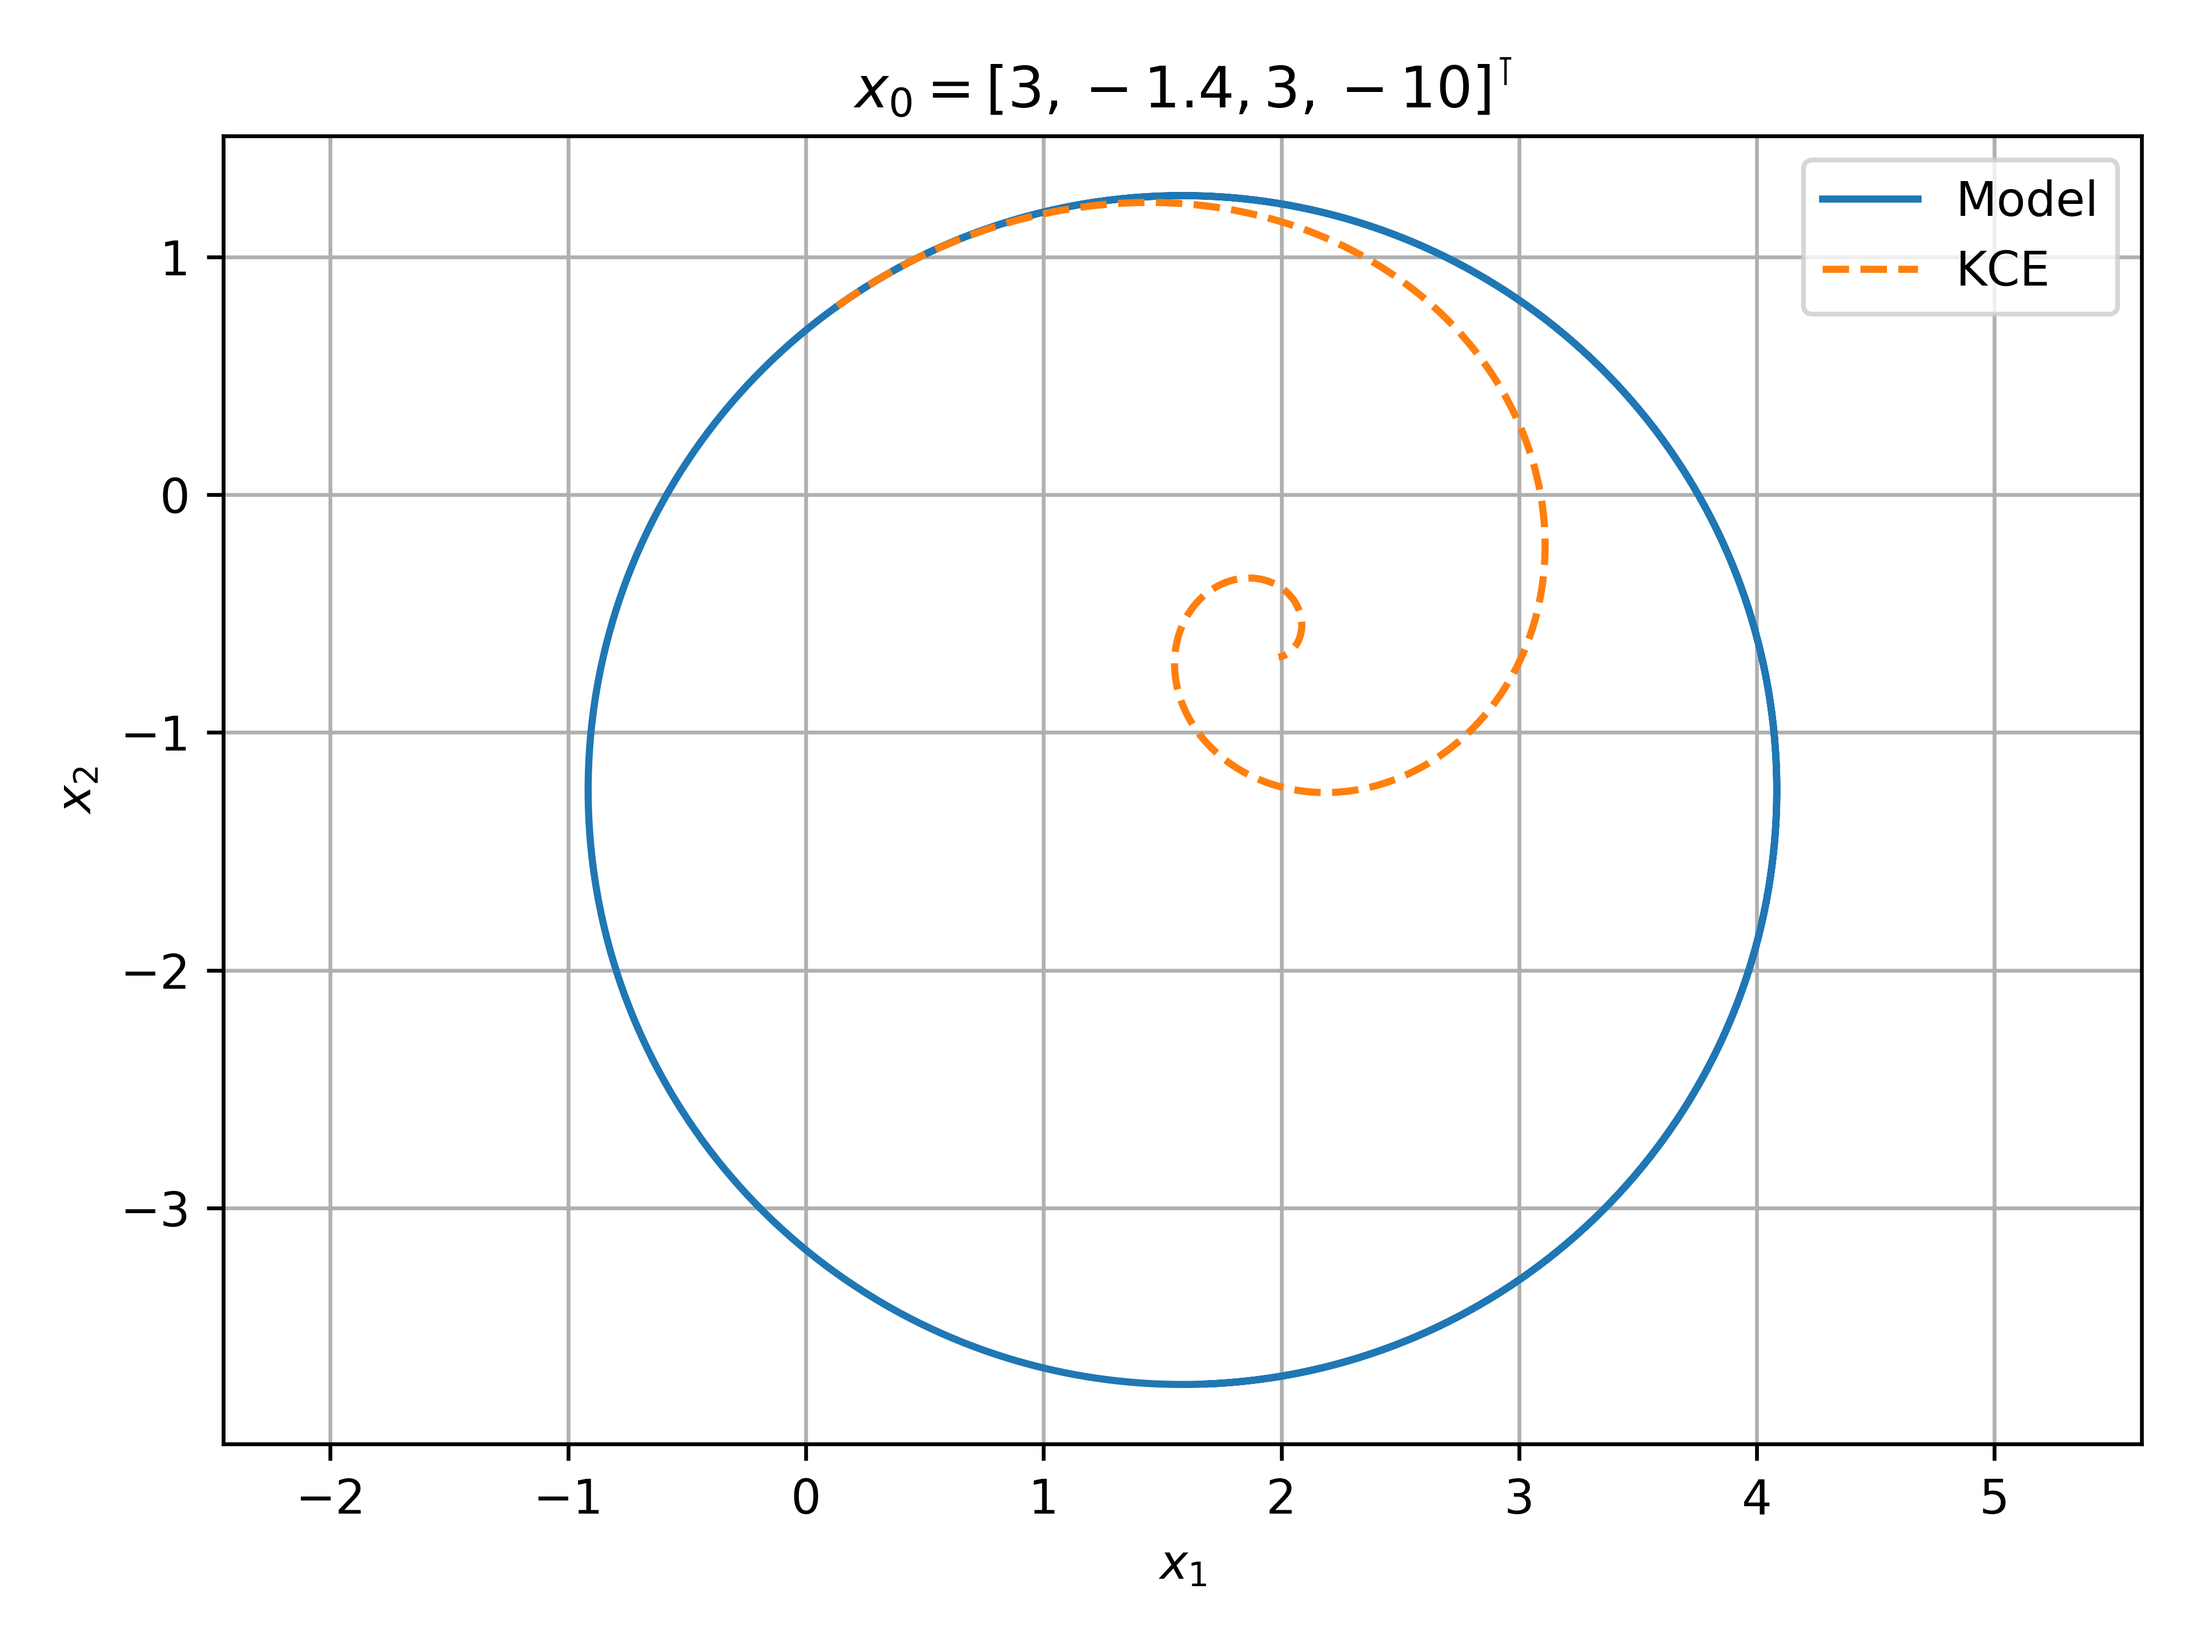
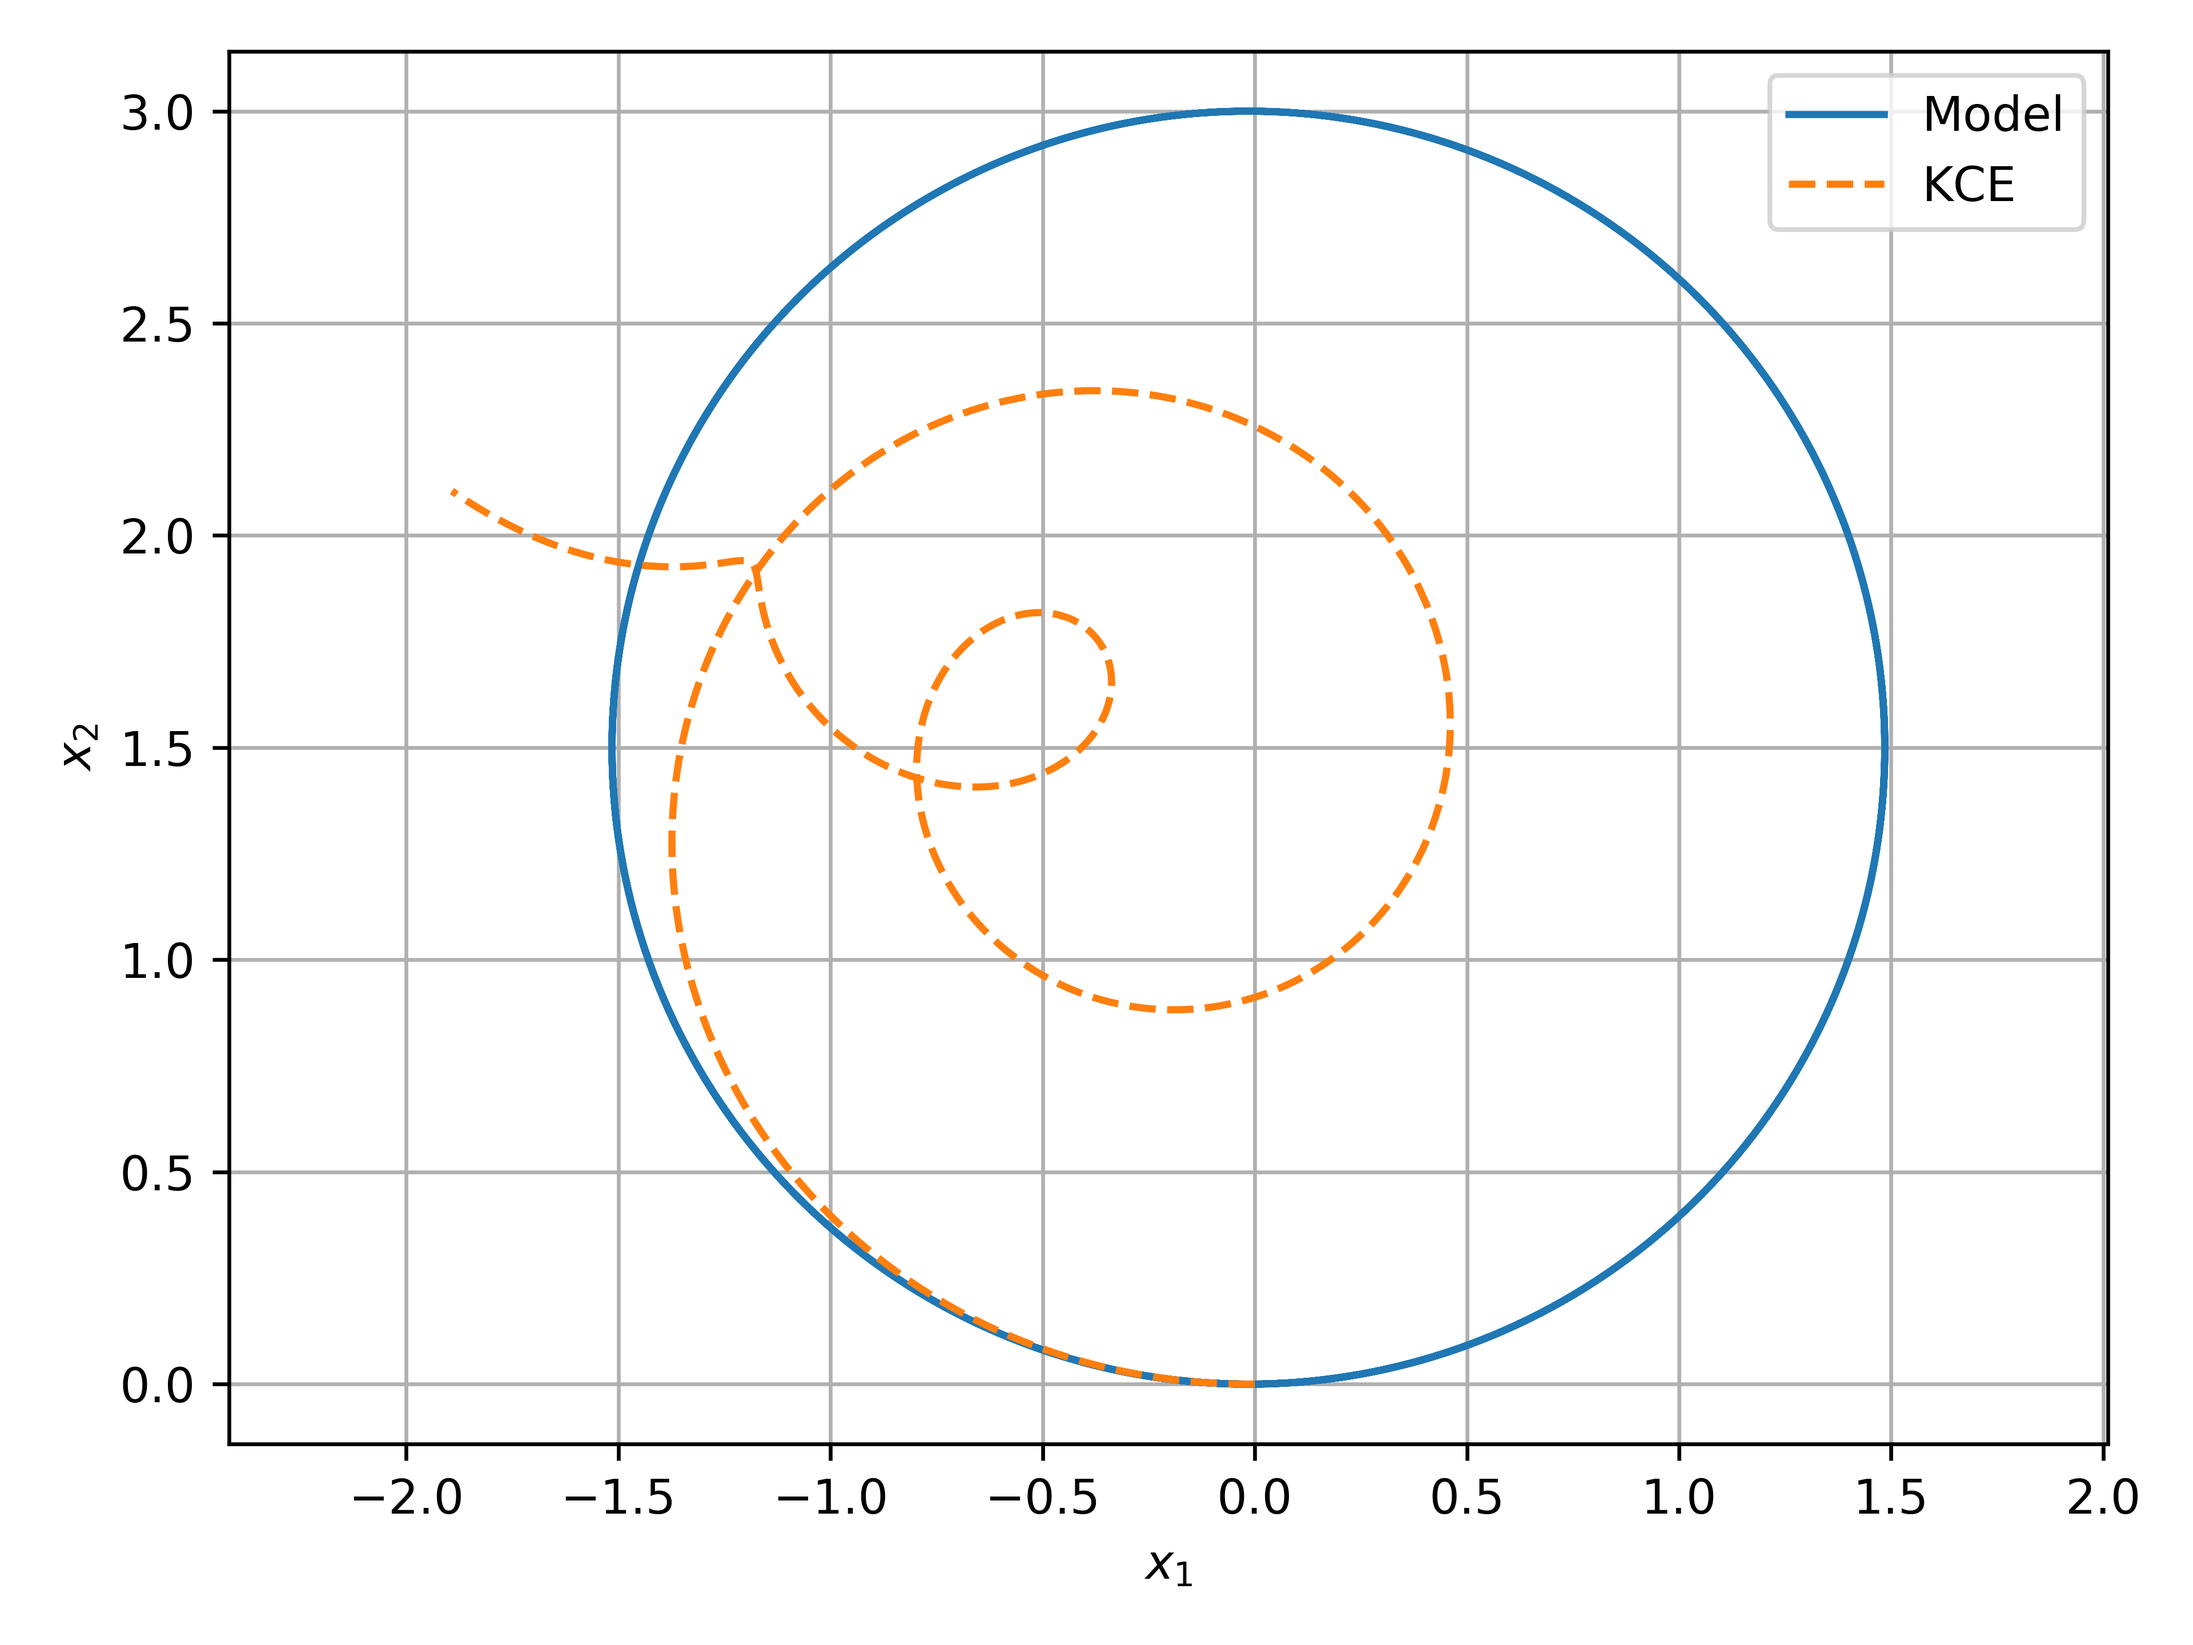
readme and sample code updated

diff --git a/donald.py b/donald.py
@@ -155,7 +155,6 @@ def plotcomp(x1List, x2List, filename=None):
     axs.plot(x1List[0], x1List[1], label='Model');
     axs.plot(x2List[0], x2List[1], linestyle='--', label='KCE');
 
-    plt.title('$x_0 = [3, -1.4, 3, -10]^\intercal$');
     plt.xlabel('$x_1$')
     plt.ylabel('$x_2$')
     axs.axis('equal');
@@ -293,14 +292,16 @@ if __name__ == "__main__":
 
 
     # exavluate the behavior of Kx with remeasurement function
-    dModel1 = lambda x: modelTrain(x, np.array( [[1.0],[1.5]] ));
+    x0ref = np.array( [[0],[0],[pi]] );
+    uref = np.array( [[1],[2]] );
+    dModel1 = lambda x: modelTrain(x, uref);
     kModel1 = lambda Psi: Kx@rmes(Psi);
     def rmes(Psi):
         PsiX = Psi[:NkX].reshape(NkX,1);
         PsiU = Psi[NkX:].reshape(NkU,1);
 
         x = Psi[:Nx].reshape(Nx,1);
-        u = np.array( [[1.0],[1.5]] );
+        u = uref;
         X = np.vstack( (x,u) );
 
         PsiH = obsH(X);
@@ -309,9 +310,9 @@ if __name__ == "__main__":
 
         return Psin;
 
-    Psi0 = obsXU(XU0[:,0].reshape(Nx+Nu,1));
+    Psi0 = obsXU(np.vstack( (x0ref, uref) ));
     PsiTest = data.generate_data(tList, kModel1, Psi0)[0];
-    xTest = data.generate_data(tList, dModel1, X0[:,0].reshape(Nx,1))[0];
+    xTest = data.generate_data(tList, dModel1, x0ref)[0];
 
     # plot test results
     plotcomp(xTest, PsiTest);

diff --git a/readme.md b/readme.md
@@ -251,3 +251,12 @@ $$
     \end{matrix} \right]
 \end{aligned}
 $$
+
+Which facilitates a high accuracy for the propagation of $\Psi$ with constant input and over a relatively short simulation time. See below.
+
+<p align="center">
+    <img src=./Figures/donaldNoTrigH.png width=325 />
+    <img src=./Figures/donaldTrigH.png width=325 />
+</p>
+
+The left image shows the propagation of $\Psi$ with the linearization terms, and the trig functions excluded from $h$; the right image shows the same simulation with trig functions maually updated in $h$.
